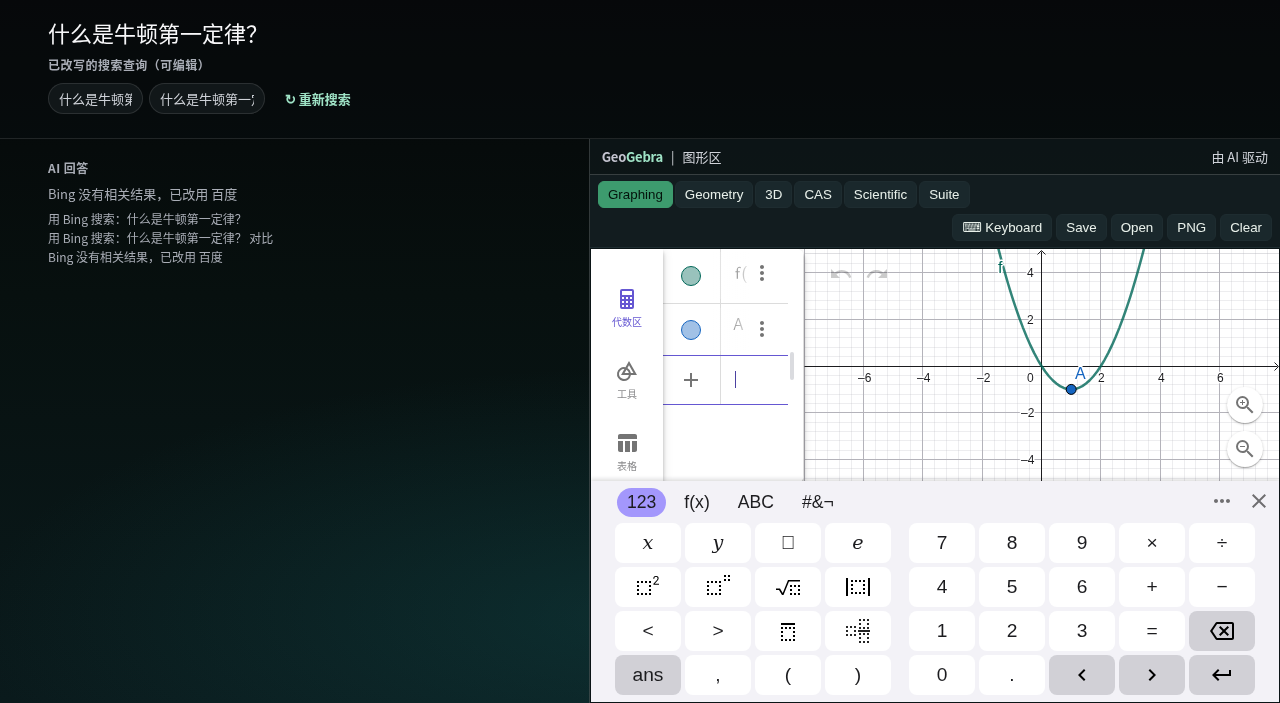
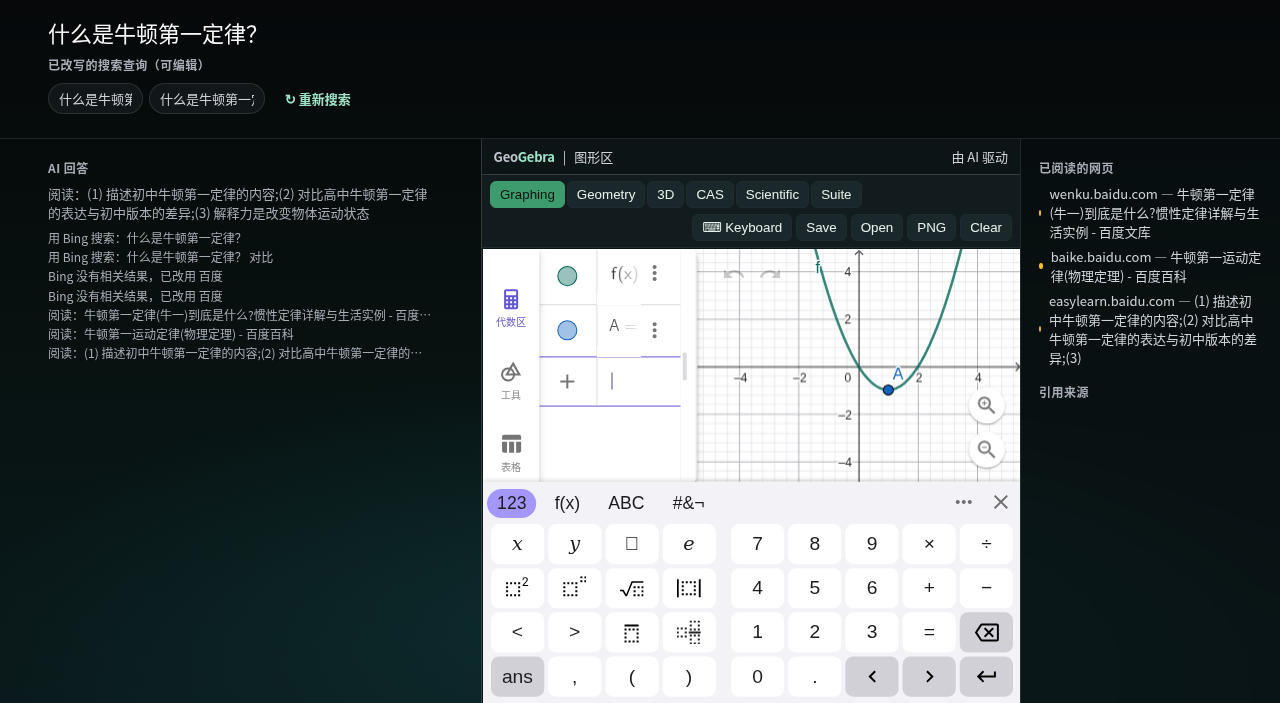
test: desktop physics params panel live check

diff --git a/test/suites/21-panels-live.js b/test/suites/21-panels-live.js
@@ -64,5 +64,23 @@ module.exports = async ({ test, group, assert, eq, until }) => {
     assert((s4.t || s4.state?.t || 0) === 0, 'reset ' + JSON.stringify(s4).slice(0, 200));
   });
 
+  await test('物理（桌面）：参数面板——改 μ₀/θ 后派生量实时变化、越界报错、别名、模块示例全部可载入', async () => {
+    await call('aib.physics', 'loadExample', { id: 'mod_incline' }); await sleep(900);
+    const lp = await call('aib.physics', 'listParams', {});
+    const keys = lp.modules[0].params.map(x => x.key); for (const k of ['theta', 'mu0', 'mu', 'mass', 'g']) assert(keys.includes(k), 'param ' + k);
+    const fr = p.frames().find(f => f.url().includes('aib.physics/panel.html'));
+    const before = await call('aib.physics', 'state', {});
+    await call('aib.physics', 'setParam', { module: 0, key: 'theta', value: 45 }); await call('aib.physics', 'setParam', { module: 0, key: 'mu0', value: 1 });
+    const after = await call('aib.physics', 'state', {});
+    assert(after.derived['critical angle atan μ₀ (°)'] > 44.9 && after.derived['critical angle atan μ₀ (°)'] < 45.1, JSON.stringify(after.derived));
+    assert(after.derived['slides 是否下滑'] !== undefined && JSON.stringify(after.derived) !== JSON.stringify(before.derived), 'derived live');
+    const n = await fr.evaluate(() => document.querySelectorAll('#params input[type=range]').length); assert(n >= 7, 'sliders ' + n);
+    let err = ''; try { await call('aib.physics', 'setParam', { module: 0, key: 'theta', value: 200 }); } catch (e) { err = String(e.message || e); }
+    assert(/must be in \[/.test(err), 'range error: ' + err);
+    const ex = JSON.parse(fs.readFileSync(path.join(__dirname, '../../extensions/builtin/physics/examples/index.json'), 'utf8')); const list = ex.examples || ex;
+    for (const e of list.filter(x => x.id.startsWith('mod_'))) { const r = await call('aib.physics', 'loadExample', { id: e.id }); assert(r.ok, e.id); }
+    await shot('21-physics-params.png');
+  });
+
   await app.close();
 };
